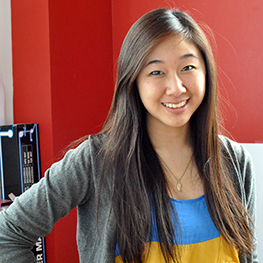
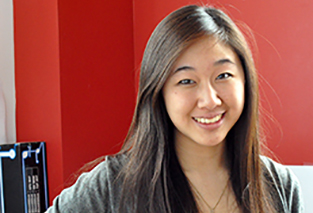
photo updates + minor bio fixes

diff --git a/home/templates/index.html b/home/templates/index.html
@@ -762,7 +762,7 @@
                           <div class="row">
                             <div class="seven columns">
                               <!-- START MEMBER IMAGE --> 
-                              <img src="images/team/stamer.jpg" alt="team">  
+                              <img src="{{STATIC_URL}}images/team/stamer.jpg" alt="team">  
                               <!-- END MEMBER IMAGE --> 
                               
                               <!-- START MEMBER SHARING ICONS --> 
@@ -798,7 +798,7 @@
                       <div class="team-thumb img-wrp">
                       
                         <!-- START MEMBER IMAGE --> 
-                        <img src="{{STATIC_URL}}images/team/benfeis.png" alt="team">  
+                        <img src="{{STATIC_URL}}images/team/benfeis.jpg" alt="team">  
                         <!-- END MEMBER IMAGE --> 
                          <!-- START TEAM OVERLAY -->  
                          <div class="team-overlay">
@@ -850,7 +850,7 @@
                           <div class="row">
                             <div class="seven columns">
                               <!-- START MEMBER IMAGE --> 
-                              <img src="images/team/benfeis.png" alt="team">  
+                              <img src="{{STATIC_URL}}images/team/benfeis.jpg" alt="team">  
                               <!-- END MEMBER IMAGE --> 
                            
                             </div><!-- END COLUMN --> 
@@ -925,7 +925,7 @@
                           <div class="row">
                             <div class="seven columns">
                               <!-- START MEMBER IMAGE --> 
-                              <img src="images/team/krish.jpg" alt="team">  
+                              <img src="{{STATIC_URL}}images/team/krish.jpg" alt="team">  
                               <!-- END MEMBER IMAGE --> 
                            
                             </div><!-- END COLUMN --> 
@@ -1000,7 +1000,7 @@
                           <div class="row">
                             <div class="seven columns">
                               <!-- START MEMBER IMAGE --> 
-                              <img src="images/team/annayang.jpg" alt="team">  
+                              <img src="{{STATIC_URL}}images/team/annayang.jpg" alt="team">  
                               <!-- END MEMBER IMAGE --> 
                            
                             </div><!-- END COLUMN --> 
@@ -1075,7 +1075,7 @@
                           <div class="row">
                             <div class="seven columns">
                               <!-- START MEMBER IMAGE --> 
-                              <img src="images/team/benfeis.png" alt="team">  
+                              <img src="{{STATIC_URL}}images/team/benfeis.png" alt="team">  
                               <!-- END MEMBER IMAGE --> 
                            
                             </div><!-- END COLUMN --> 
